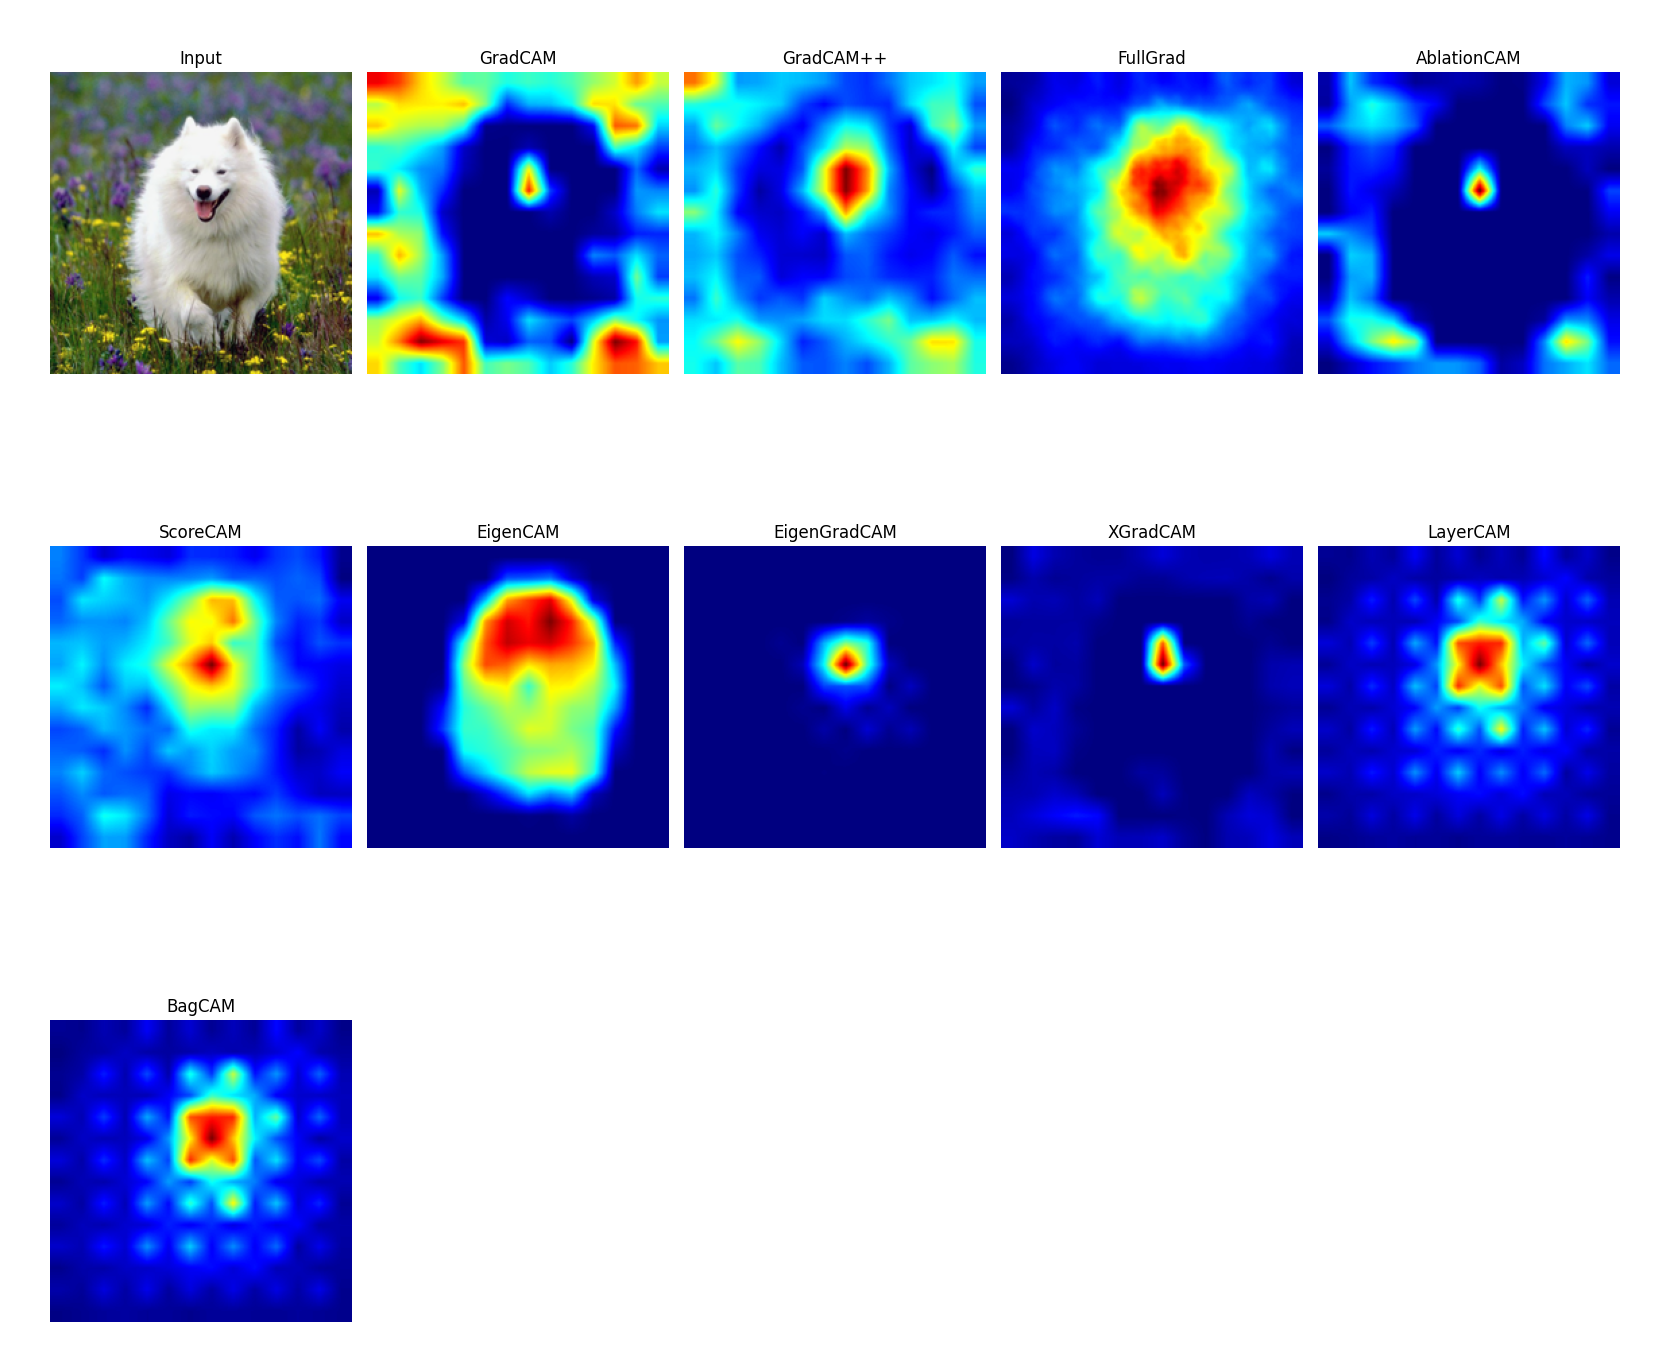
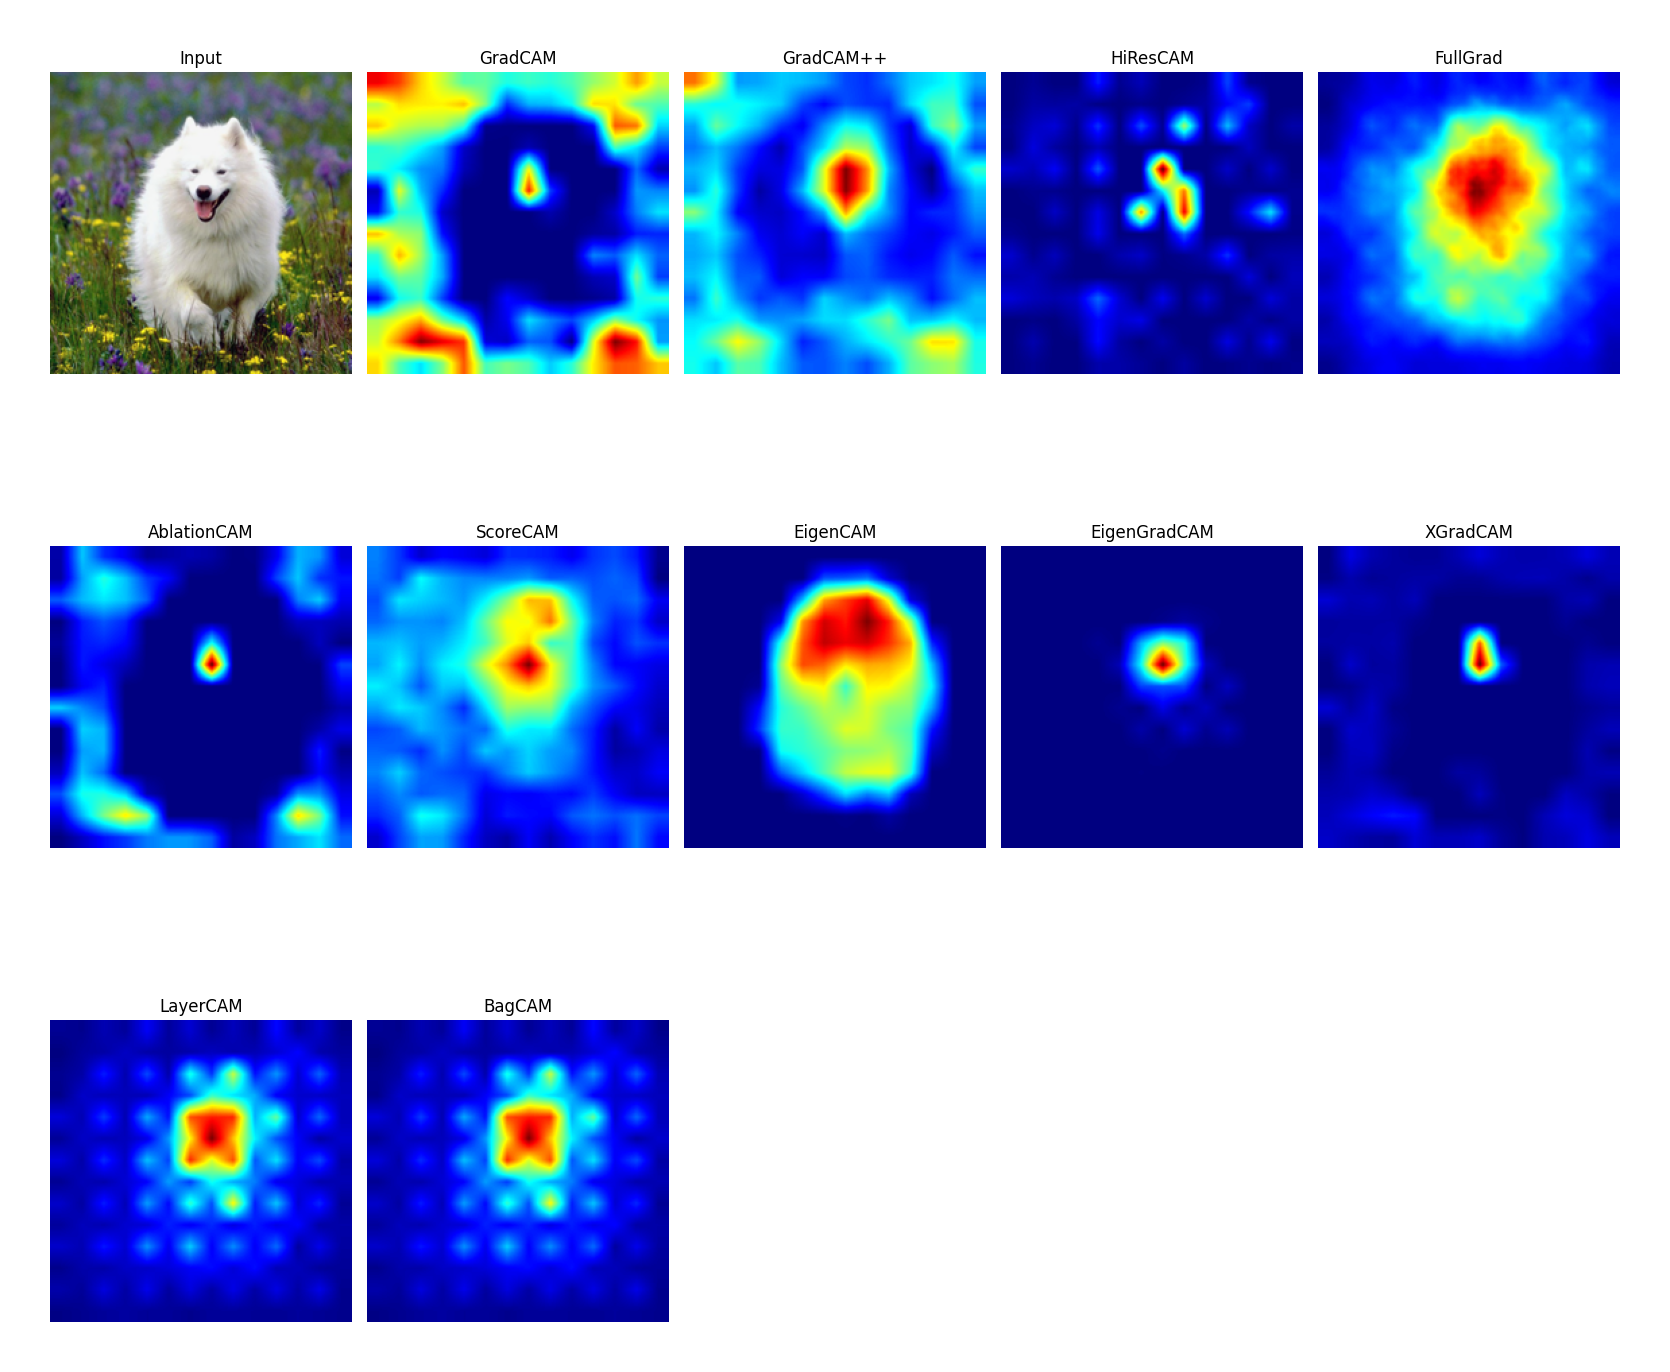
add guided gradcam and hires_cam

diff --git a/cam_visualization_examples.py b/cam_visualization_examples.py
@@ -6,7 +6,7 @@ from timm.data import resolve_model_data_config
 from timm.data.transforms_factory import create_transform
 import requests
 
-from attribution import GradCAM, GradCAMPlusPlus, XGradCAM, BagCAM, ScoreCAM, LayerCAM, AblationCAM, FullGrad, EigenCAM, EigenGradCAM
+from attribution import GradCAM, GradCAMPlusPlus, XGradCAM, BagCAM, ScoreCAM, LayerCAM, AblationCAM, FullGrad, EigenCAM, EigenGradCAM, HiResCAM
 from attribution.utils import normalize_saliency, visualize_single_saliency
 
 
@@ -75,6 +75,11 @@ if __name__ == '__main__':
     gradcam_plus_plus_net = GradCAMPlusPlus(model)
     grad_cam_plus_plus = normalize_saliency(gradcam_plus_plus_net.get_mask(img, target_index, target_layer))
     print('GradCAM++:', grad_cam_plus_plus.shape)
+    
+    # HiResCAM
+    hirescam_net = HiResCAM(model)
+    hires_cam = normalize_saliency(hirescam_net.get_mask(img, target_index, target_layer))
+    print('HiResCAM:', hires_cam.shape)
 
     # XGradCAM
     xgradcam_net = XGradCAM(model)
@@ -129,27 +134,30 @@ if __name__ == '__main__':
     plt.title('GradCAM++')
     visualize_single_saliency(grad_cam_plus_plus[0].unsqueeze(0))
     plt.subplot(3,5,4)
+    plt.title('HiResCAM')
+    visualize_single_saliency(hires_cam[0].unsqueeze(0))
+    plt.subplot(3,5,5)
     plt.title('FullGrad')
     visualize_single_saliency(full_grad[0].unsqueeze(0))
-    plt.subplot(3,5,5)
+    plt.subplot(3,5,6)
     plt.title('AblationCAM')
     visualize_single_saliency(ablation_cam[0].unsqueeze(0))
-    plt.subplot(3,5,6)
+    plt.subplot(3,5,7)
     plt.title('ScoreCAM')
     visualize_single_saliency(score_cam[0].unsqueeze(0))
-    plt.subplot(3,5,7)
+    plt.subplot(3,5,8)
     plt.title('EigenCAM')
     visualize_single_saliency(eigen_cam[0].unsqueeze(0))
-    plt.subplot(3,5,8)
+    plt.subplot(3,5,9)
     plt.title('EigenGradCAM')
     visualize_single_saliency(eigen_grad_cam[0].unsqueeze(0))
-    plt.subplot(3,5,9)
+    plt.subplot(3,5,10)
     plt.title('XGradCAM')
     visualize_single_saliency(xgrad_cam[0].unsqueeze(0))
-    plt.subplot(3,5,10)
+    plt.subplot(3,5,11)
     plt.title('LayerCAM')
     visualize_single_saliency(layer_cam[0].unsqueeze(0))
-    plt.subplot(3,5,11)
+    plt.subplot(3,5,12)
     plt.title('BagCAM')
     visualize_single_saliency(bag_cam[0].unsqueeze(0))
     

diff --git a/attribution/base.py b/attribution/base.py
@@ -1,5 +1,6 @@
 import torch
 from typing import Optional, List, Union
+from .utils import normalize_saliency
 
 class Core(torch.nn.Module):
     def __init__(self, model: torch.nn.Module):
@@ -106,3 +107,25 @@ class CAMWrapper(Core):
         cam -= cam.min(dim=1, keepdim=True)[0]
         cam /= cam.max(dim=1, keepdim=True)[0]
         return cam.view(B, C, H, W)
+    
+    
+class CombinedWrapper(Core):
+    def __init__(self, model: torch.nn.Module, gradient_net: Core, cam_net: CAMWrapper):
+        super(CombinedWrapper, self).__init__(model)
+        self.gradient_net = gradient_net(model)
+        self.cam_net = cam_net(model)
+        
+    def get_mask(self, img: torch.Tensor, target_class: torch.Tensor, target_layer: str, *args_for_gradient_net):
+        B, C, H, W = img.size()
+        self.model.eval()
+        self.model.zero_grad()
+        cam = self.cam_net.get_mask(img, target_class, target_layer)
+        gradients = self.gradient_net.get_mask(img, target_class, *args_for_gradient_net)
+        gradients = normalize_saliency(gradients, return_device=self.device)
+        
+        with torch.no_grad():
+            attribution = gradients * cam
+            attribution = torch.nn.functional.relu(attribution)
+            attribution = self.cam_net.normalize_cam(attribution)
+            
+        return attribution

diff --git a/attribution/hires_cam.py b/attribution/hires_cam.py
@@ -1,0 +1,33 @@
+from .base import CAMWrapper
+
+import torch
+from torch.nn import functional as F
+from typing import List
+
+class HiResCAM(CAMWrapper):
+    def get_mask(self, img: torch.Tensor, 
+                 target_class: torch.Tensor, 
+                 target_layer: str | List[str]):
+        B, C, H, W = img.size()
+        self.model.eval()
+        self.model.zero_grad()
+        
+        # class-specific backpropagation
+        logits = self.model(img)
+        target = self._encode_one_hot(target_class, logits)
+        self.model.zero_grad()
+        logits.backward(gradient=target, retain_graph=True)
+        
+        # get feature maps and gradients
+        feature_maps = self._find(self.feature_maps, target_layer)
+        gradients = self._find(self.gradients, target_layer)
+        
+        # generate CAM
+        with torch.no_grad():
+            cam = gradients * feature_maps
+            cam = cam.sum(dim=1, keepdim=True)
+            cam = F.relu(cam)
+            cam = F.interpolate(cam, (H, W), mode='bilinear', align_corners=False)
+            cam = self.normalize_cam(cam)
+            
+        return cam

diff --git a/attribution/guided_gradcam.py b/attribution/guided_gradcam.py
@@ -1,0 +1,12 @@
+import torch
+from torch.nn import functional as F
+
+from .base import CombinedWrapper
+from .grad_cam import GradCAM
+from .guided_backprop import GuidedBackProp
+
+class GuidedGradCAM(CombinedWrapper):
+    def __init__(self, model: torch.nn.Module):
+        gradient_net = GuidedBackProp
+        cam_net = GradCAM
+        super(GuidedGradCAM, self).__init__(model, gradient_net, cam_net)

diff --git a/attribution/__init__.py b/attribution/__init__.py
@@ -5,6 +5,8 @@ from .guided_ig import GuidedIG
 from .guided_backprop import GuidedBackProp
 
 from .grad_cam import GradCAM
+from .guided_gradcam import GuidedGradCAM
+from .hires_cam import HiResCAM
 from .grad_cam_plusplus import GradCAMPlusPlus
 from .xgrad_cam import XGradCAM
 from .bag_cam import BagCAM
